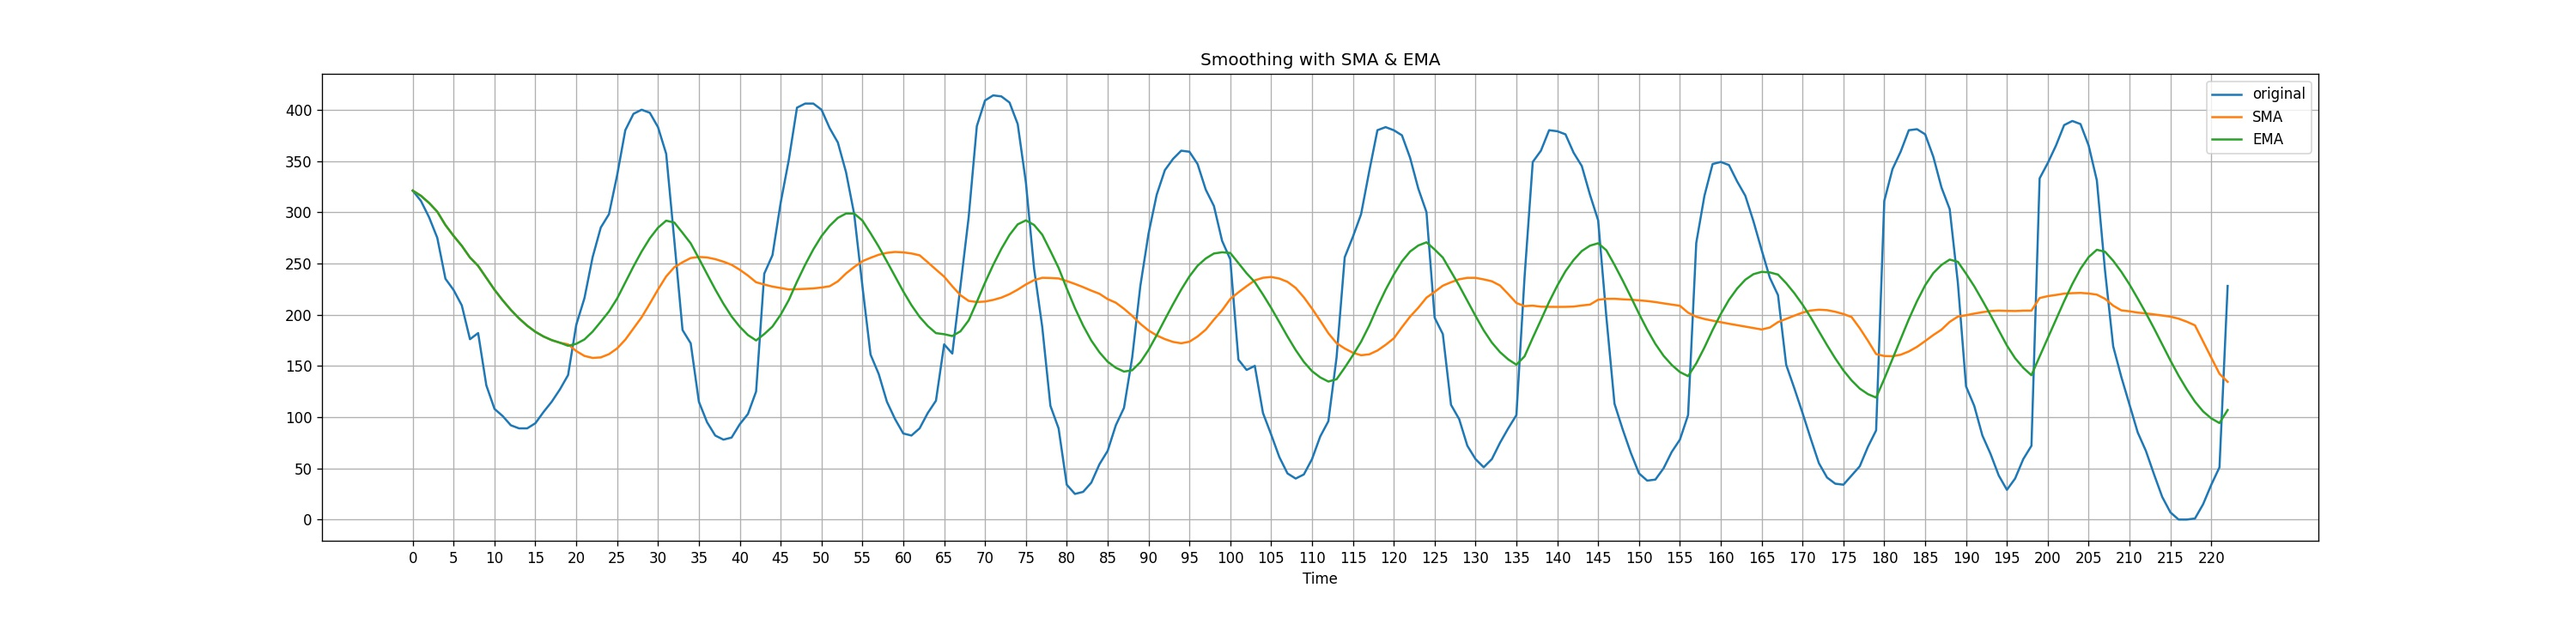
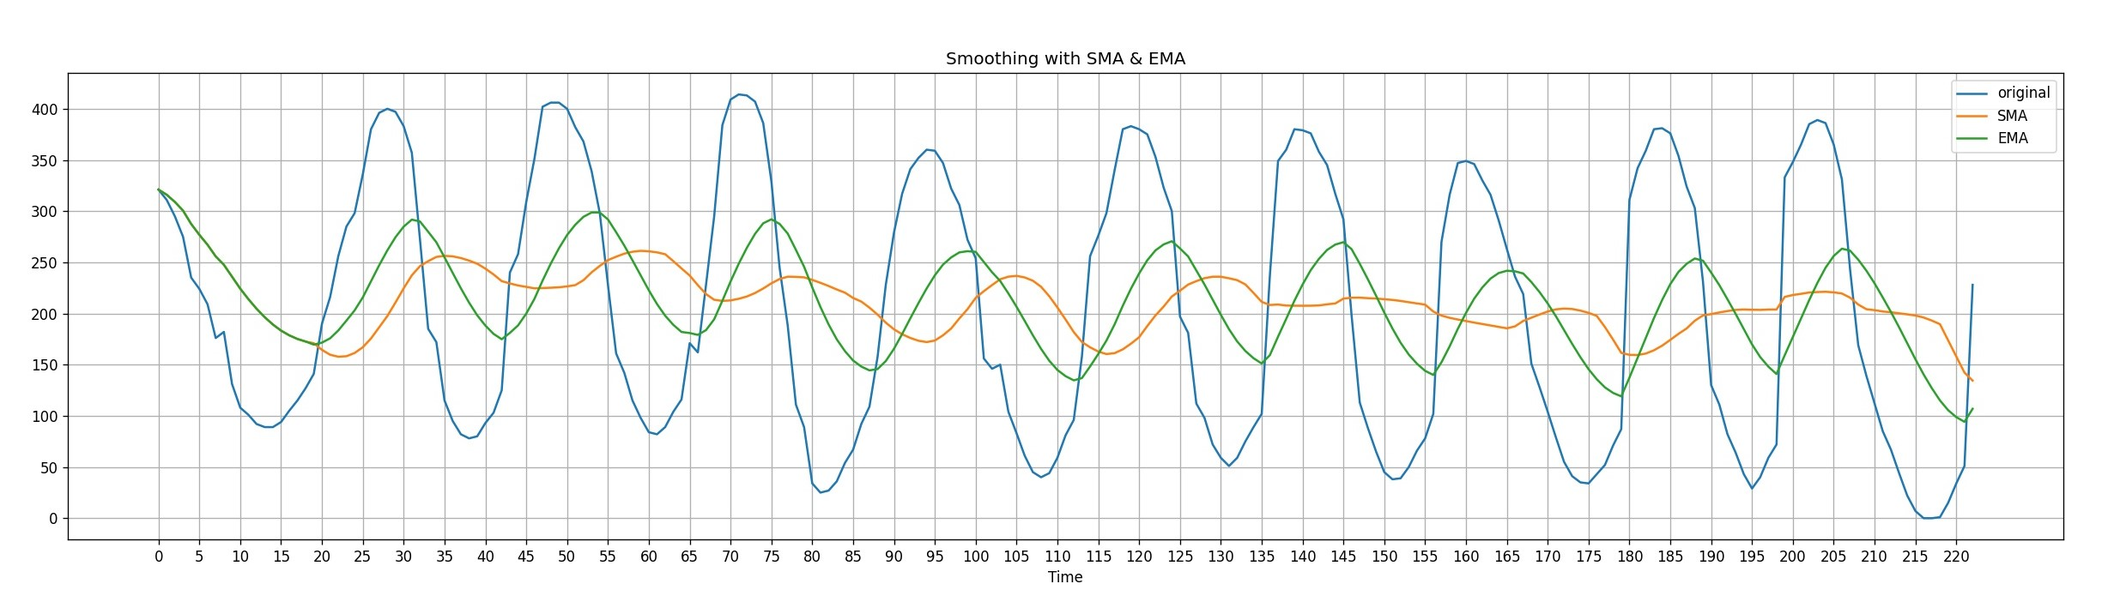
renew image and equation

diff --git a/Assignment/Algorithm Report/README.md b/Assignment/Algorithm Report/README.md
@@ -2,7 +2,7 @@
 Moving average, also known as `rolling mean` is an algorithm that commonly used with time series data to smooth random short-term variations and to highlight other components (trend, season, or cycle). It will calculated by averaging data of the time series within $\ k$ periods of time resulting the new smoothed data. There are several type of moving average including `Simple Moving Average` and `Exponential Moving Average`. Next I will write a hand tracking program and record the movement data. I write the program in python since I will use the hand tracking library provided by `CVZONE` which is available in python. I will use SMA and EMA algorithm to smoothing the hand movement captured by my camera in real time and do the comparation with the original data that have not been smoothed yet.
 
 ## Simple Moving Average (SMA)
-The simple moving average is the `unweighted mean` of the previous $\ k$ data points. $\ k$ as the sliding window is modify able. Increasing the $\ k$ value will improve the data smoothness but the data will become less accurate.
+The simple moving average is the `unweighted mean` of the previous k  data points. k as the sliding window is modify able. Increasing the k value will improve the data smoothness but the data will become less accurate.
 
 <img src="resource/SMA.PNG" alt="SMA formula" title="SMA formula" width="350"><br>
 
@@ -121,23 +121,40 @@ plt.show()
 <img src="resource/HandTracking_withoutReplace1.jpg" alt="Hand tracking graph" title="Hand tracking graph" width="950"><br><br>
 
 ## Exponential Moving Average (EMA)
-The exponential moving average is the `weighted mean`. The weight of each element will decrease progressively over time but it will never reaching zero. Below is the formula to calculate exponential moving average at the time period $\ t$ :
+The exponential moving average is the `weighted mean`. The weight of each element will decrease progressively over time but it will never reaching zero. Below is the formula to calculate exponential moving average at the time period t :
 
 <img src="resource/EMAformula.png" alt="EMA formula" title="EMA formula" width="350"><br>
 
 with :
-* $\ EMA_t$ is the exponential moving average at time period $\ t$
-* $\ x_t$ is observation at time period $\ t$
-* $\ α = \frac{2}{N + 1}$, with $\ N$ equal to days in $\ EMA$. $\ α$ represent the degree of weighting decrease
+* ![equation](https://latex.codecogs.com/png.latex?%5Cdpi%7B100%7D%20%5Cbg_white%20EMA_%7Bt%7D) is the exponential moving average at time period t
+* ![equation](https://latex.codecogs.com/png.latex?%5Cdpi%7B100%7D%20%5Cbg_white%20x_%7Bt%7D) is observation at time period t
+* ![equation](https://latex.codecogs.com/png.latex?%5Cdpi%7B100%7D%20%5Cbg_white%20%5Calpha%20%3D%20%5Cfrac%7B2%7D%7BN%20&plus;%201%7D), with N equal to days in EMA. α represent the degree of weighting decrease
 
-As an example I use the same hand tracking data and process it with EMA. I will use window size of 10 EMA so for the first 10 frames I use SMA data and make it as the input for $\ EMA_{t-1}$ on frame 11. Below is my code for EMA :
+As an example I use the same hand tracking data and process it with EMA. I will use window size of 10 EMA so for the first 10 frames I use SMA data and make it as the input for ![equation](https://latex.codecogs.com/png.latex?%5Cdpi%7B100%7D%20%5Cbg_white%20EMA_%7Bt-1%7D) on frame 11. Below is my code for EMA :
 
 ```python
+window_size = 10
+    
+tempState = [] # will keep the most 5 recent data
+tempAvg = 0
+
+def Simple_MovingAverage(point):
+    if(len(tempState) < window_size):
+        tempState.append(point)
+    else:
+        tempState.append(point)
+        tempState.pop(0) # remove old data
+                
+    if (len(tempState) > 0):
+        tempAvg = (statistics.mean(tempState))
+        
+    return tempAvg
+
 def Exponential_MovingAverage(point, N, lastEma):
-    if(N<5):
+    if(N < window_size):
         curEma = Simple_MovingAverage(point)
     else:
-        alpha = 2/(5 + 1)
+        alpha = 2/(window_size + 1)
         curEma = (point * alpha) + (lastEma * (1-alpha))
     return curEma
 ```
@@ -145,13 +162,14 @@ def Exponential_MovingAverage(point, N, lastEma):
 I use the following code to process the last data :
 
 ```python
+window_size = 10
 smoothEmaData = []
 lastEma = 0
 N = 1
 for data in realData:
     temp = Exponential_MovingAverage(data, N, lastEma)
     lastEma = temp
-    if(N<5):
+    if(N < window_size):
         N += 1
     smoothEData.append(temp)
 ```
